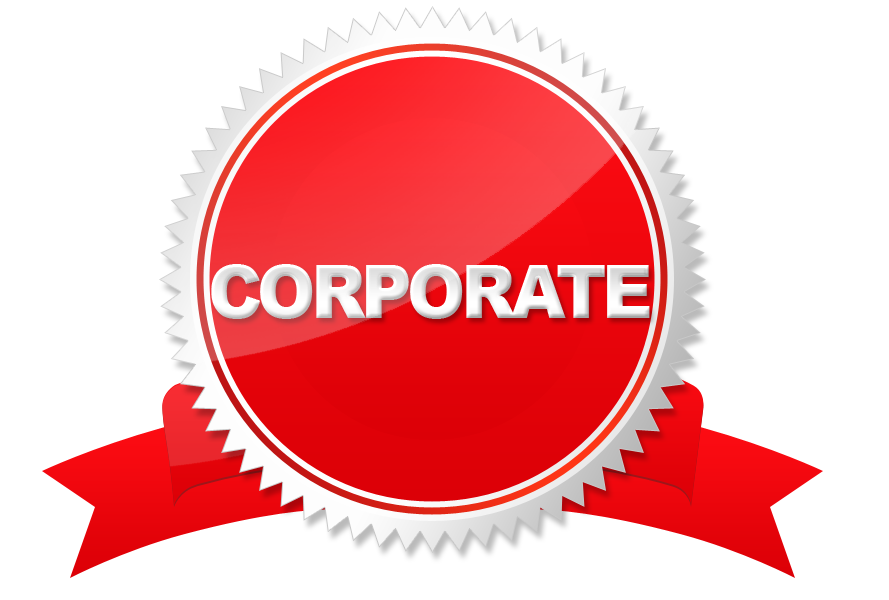
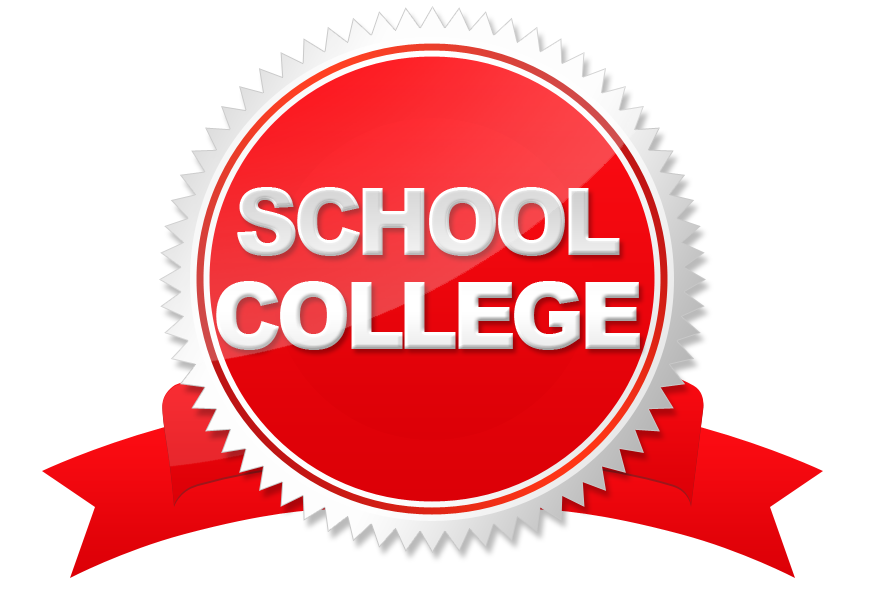
edit text content: 1]. Corporate is 9 a year, 2.] Let's add 'INDIVIDUAL' above Package 1 and 2, and CORPORATE above Package 3  3.]Change Corporate in red label to 'School / College' (without slash and college under school) 4.] Delete 'Drama School / College / University' below red ribbon 5.] Your ve

Changed region(s): [[0.2126, 0.3, 0.7593, 0.6]]

diff --git a/membership.html b/membership.html
@@ -33,15 +33,15 @@
 				<h1><b>GIVES YOU FREE AND FULL ACCESS TO</b></h1>
 				<br>
 				<ul class="list-inline " >
-					<li><h3 style="font-size:24px">700<br>AUDIO SPEECHES  | </h3></li>
-					<li><h3 style="font-size:24px">QUICK<br>REFERENCE LIBRARY | </h3></li>
-					<li><h3 style="font-size:24px">SLIDE SHOWS&nbsp; <br>(<i>Beginner Level</i>) |</h3></li>
-					<li><h3 style="font-size:24px">FORUM <br> &nbsp; </h3></li>
+					<li style="vertical-align: middle; border-right:2px solid #fff; padding: 15px;"><h3 style="font-size:24px; margin:20px">700<br>AUDIO SPEECHES</h3> </li>
+					<li style="vertical-align: middle; border-right:2px solid #fff; padding: 15px;"><h3 style="font-size:24px; margin:20px">QUICK<br>REFERENCE LIBRARY</h3></li>
+					<li style="vertical-align: middle; border-right:2px solid #fff; padding: 15px;"><h3 style="font-size:24px; margin:20px">SLIDE SHOWS<br>(Beginner Level)</h3></li>
+					<li style="vertical-align: middle; 	padding: 15px;"><h3 style="font-size:24px; max-resolution: 20px;">FORUM <br> &nbsp; </h3></li>
 				</ul>	
 			    <h3><b><i><span style="font-size:40px; color:#E00108">+ 50% off</span></i></b></h3>
 			    <h3 style="font-size:23px">ePLAYS </h3>
 			    <h3 style="font-size:23px">THEATRE SCRIPTS </h3>
-		    	<h3 style="font-size:23px">SLIDE-SHOWS (<i>Intermediate & Advanced</i>)</h3>
+		    	<h3 style="font-size:23px">SLIDE-SHOWS <br>(Intermediate & Advanced)</h3>
 			    <!-- <p style="font-size:12px">*YOU NEVER PAY MORE THAN ONCE!</p> -->
 			    <br>
 			    <br>
@@ -55,13 +55,15 @@
 			<div class="col-md-8 col-md-offset-2 inline-block">
 				<br>	
 				<div class="col-md-4 text-center" style="">
+					<p>INDIVIDUAL</p>
 					<p><b>Package 1 </b></p>
 					<p><img src="images/bestVAL.png" alt="img-responsive" width="100"></p>
 					<p>$1.99 a month for 12 months</p>
-					<p><br></p>
+					<p>&nbsp; </p>
 					<p><a href="#"><img width=260 src="images/bam.png" alt="..." class="img-responsive center-block"></a></p>
 				</div>
 				<div class="col-md-4 text-center" style="">
+					<p>INDIVIDUAL</p>
 					<p><b>Package 2 </b></p>
 					<p><img src="images/bestBudget.png" alt="img-responsive" width="100"></p>
 					<p>$5.00 a month</p>
@@ -69,10 +71,11 @@
 					<p><a href="#"><img width=260 src="images/bam.png" alt="..." class="img-responsive center-block"></a></p>
 				</div>
 				<div class="col-md-4 text-center" style="">
+					<p>CORPORATE</p>
 					<p><b>Package 3 </b></p>
 					<p><img src="images/corporatet.png" alt="img-responsive" width="100"></p>
-					<p>Drama School / College / University </p>
-					<p>$99p a month</p>
+					<p>$99 a year</p>
+					<p>&nbsp; </p>
 					
 					<p><a href="#"><img width=260 src="images/bam.png" alt="..." class="img-responsive center-block"></a></p>
 				</div>
